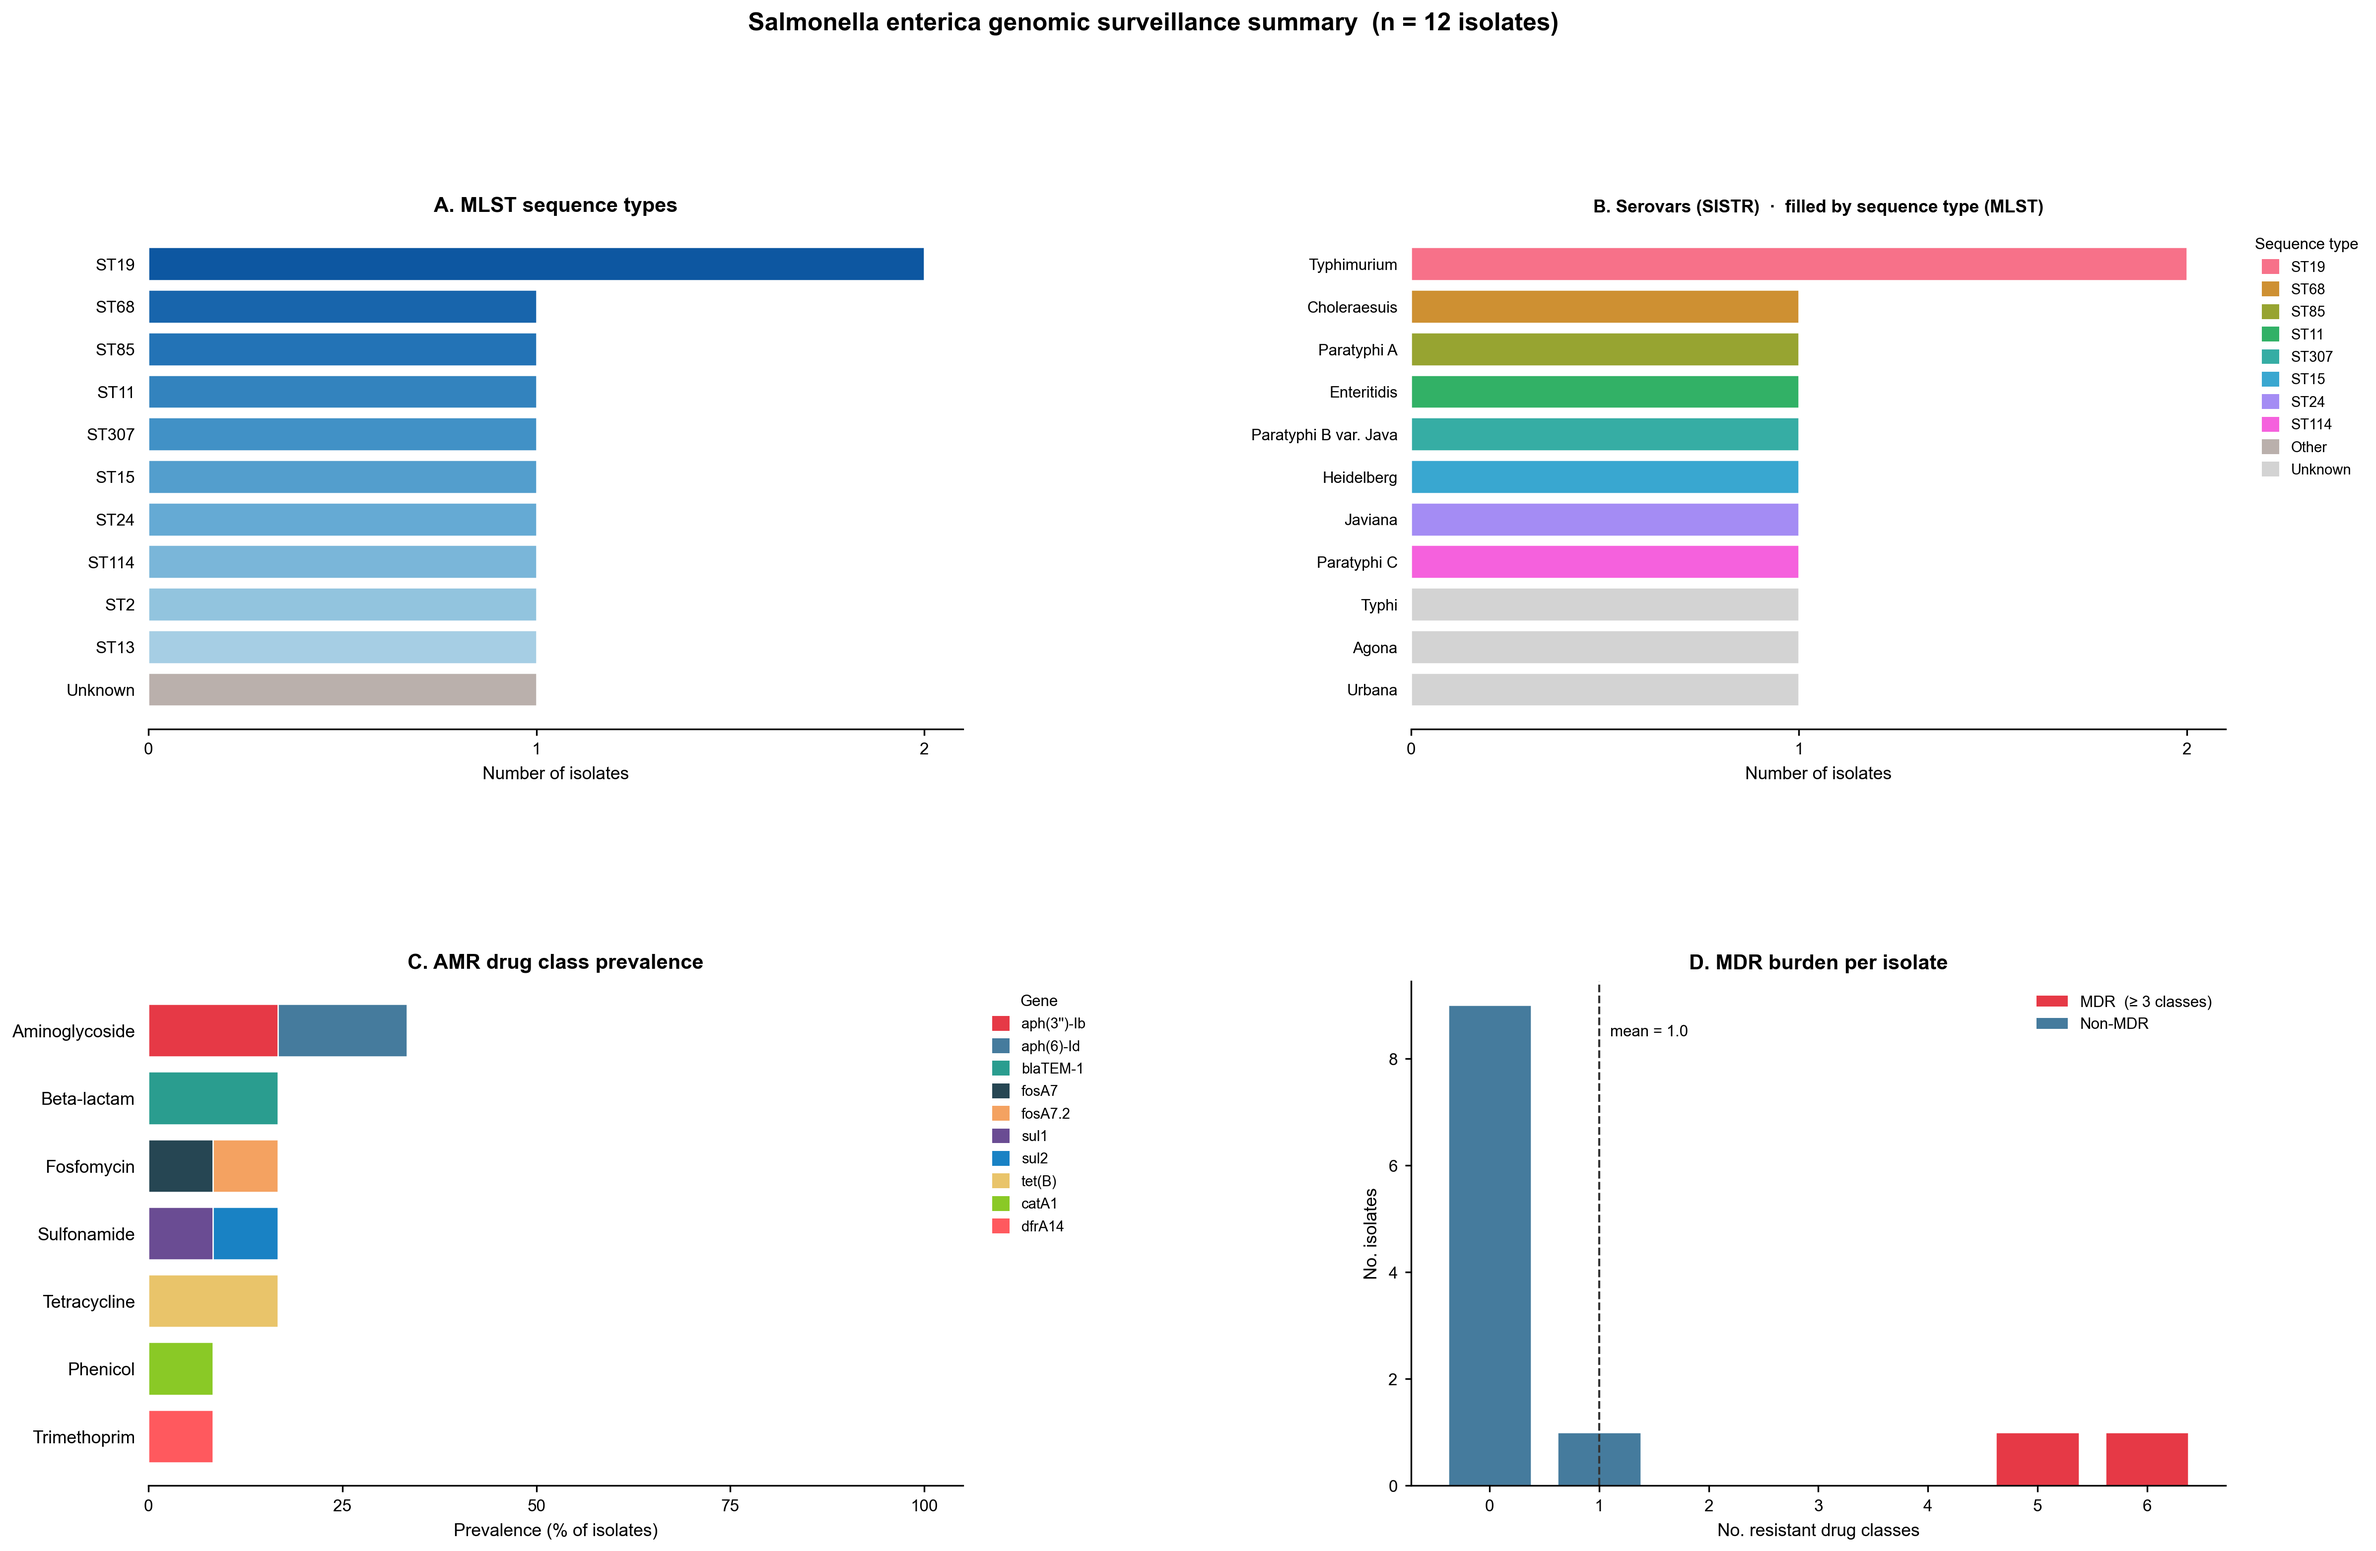
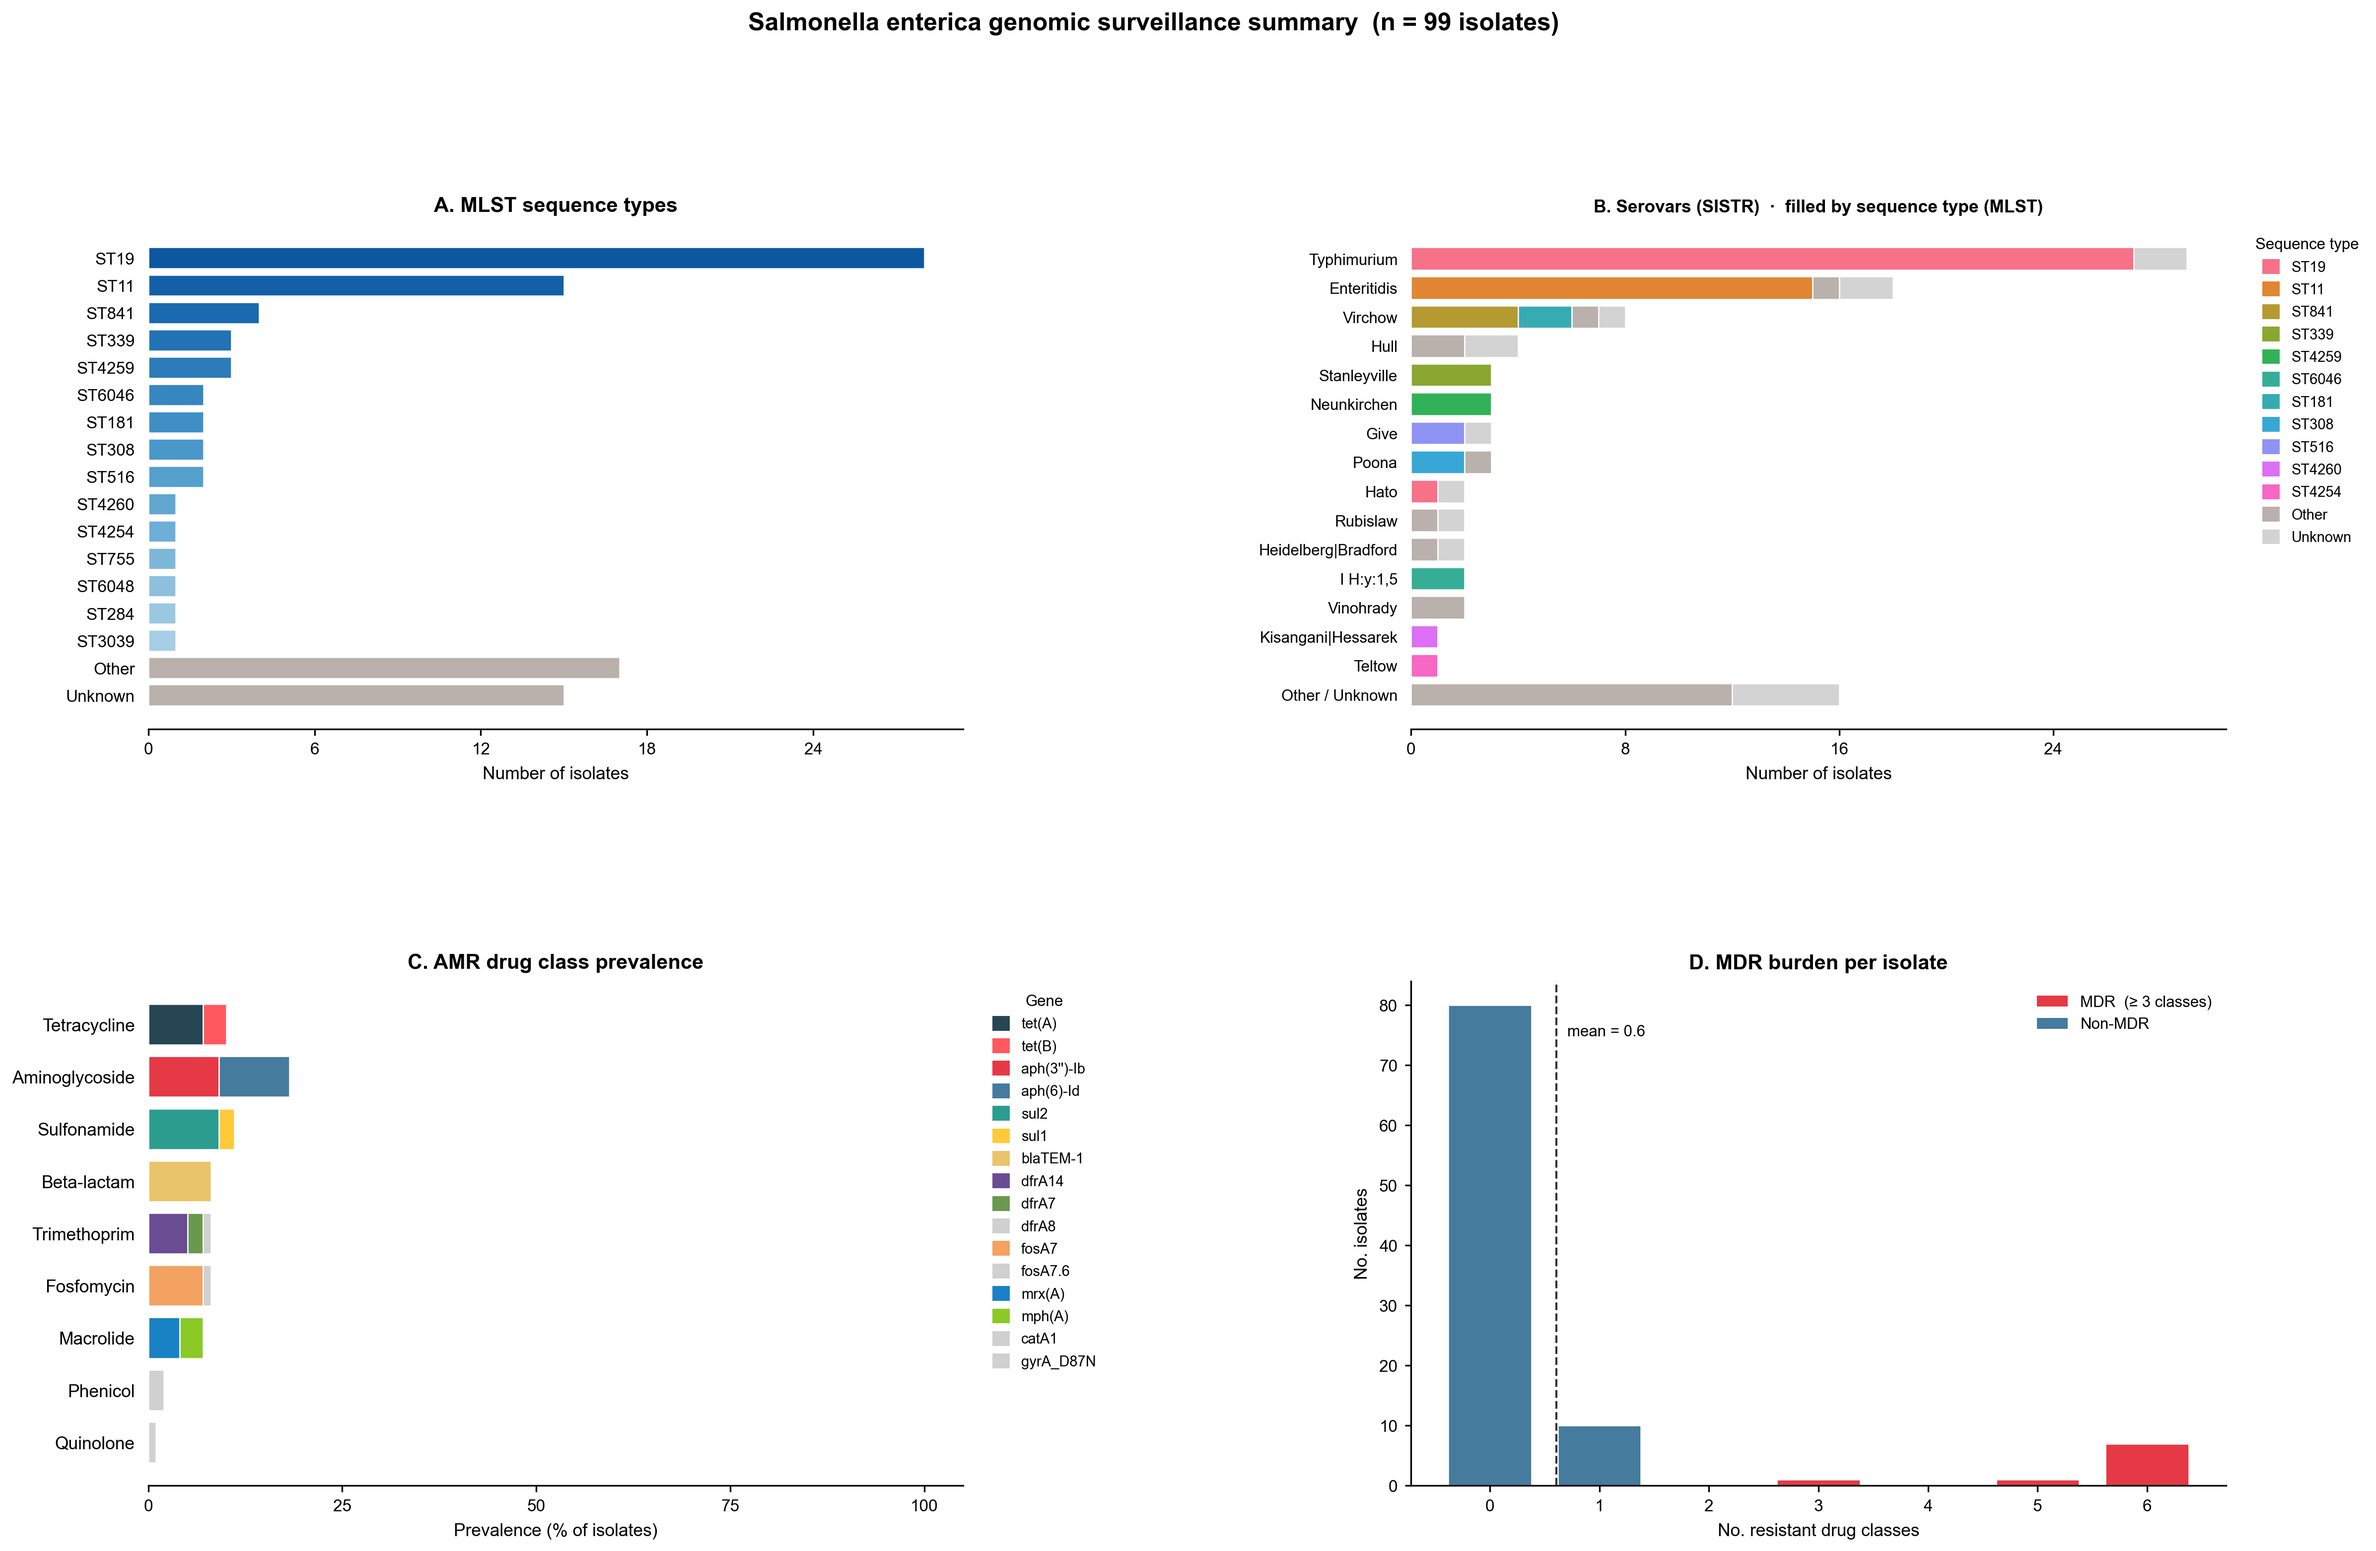
Update vignettes with Gambian Salmonella results and legend corrections
Salmonella vignette:
- Add all 6 figures from Darboe et al. 2022 Gambian NTS run (n=99)
- Update Fig 1 legend: serovar bars filled by top 12 MLST STs; "Other/
  Unknown" bins retain ST colours of constituent isolates

E. coli vignette:
- Update all isolate counts from 99 → 98 (E2348-69 removed)
- Replace Fig 4 legend with "No plasmid replicons were detected in this
  dataset" (PlasmidFinder returned no hits for NHP E. coli)
- Clarify Fig 1 legend: serotypes not in top 15 grouped as Other/Unknown;
  bars retain K-locus group colours

plot_summary.py:
- Increase top ST limit from 8 → 12 for serovar fill (Salmonella)
- Fix normalisation: rare fill values map to "Other" bucket (not "Unknown")
  when Other is available, giving consistent grey segmentation
- Fix figure title: detect Salmonella from DataFrame columns (sistr_serovar),
  not prefix string, so title is correct when run manually

diff --git a/bin/plot_summary.py b/bin/plot_summary.py
@@ -182,7 +182,7 @@ def fig_population_summary(df: pd.DataFrame, outdir: Path, prefix: str) -> None:
     _panel_sero(df, fig.add_subplot(gs[0, 1]))
     _panel_amr(df,  fig.add_subplot(gs[1, 0]))
     _panel_mdr(df,  fig.add_subplot(gs[1, 1]))
-    sp_label = ("Salmonella enterica" if "salmonella" in prefix.lower()
+    sp_label = ("Salmonella enterica" if ("sistr_serovar" in df.columns or "salmonella" in prefix.lower())
                 else "E. coli")
     fig.suptitle(f"{sp_label} genomic surveillance summary  (n = {len(df)} isolates)",
                  fontsize=12, fontweight="bold", y=1.01)
@@ -371,7 +371,7 @@ def _panel_sero(df: pd.DataFrame, ax: plt.Axes, top_n: int = 15) -> None:
     elif use_mlst_st:
         raw_st     = df["mlst_st"].apply(clean_st)
         fill_col   = raw_st
-        top_st     = [s for s, _ in Counter(raw_st).most_common(8) if s != "Unknown"]
+        top_st     = [s for s, _ in Counter(raw_st).most_common(12) if s != "Unknown"]
         has_other  = len(Counter(raw_st)) > len(top_st) + (1 if "Unknown" in Counter(raw_st) else 0)
         fill_vals  = top_st + (["Other"] if has_other else []) + (["Unknown"] if "Unknown" in Counter(raw_st) else [])
         st_pal     = sns.color_palette("husl", len(top_st))
@@ -418,7 +418,7 @@ def _panel_sero(df: pd.DataFrame, ax: plt.Axes, top_n: int = 15) -> None:
         # Normalise fill value to known categories
         valid = set(fill_vals)
         if fv not in valid:
-            fv = "Other" if use_stcomplex else "Unknown"
+            fv = "Other" if "Other" in valid else "Unknown"
 
         # Bin serotype into labelled buckets
         if sv in labels:

diff --git a/vignettes/ecoli_vignette.md b/vignettes/ecoli_vignette.md
@@ -84,7 +84,7 @@ One row per sample. Key columns:
 
 ### Fig 1 — Population summary
 
-**Figure 1. Population-level summary of 99 *Escherichia coli* isolates from
+**Figure 1. Population-level summary of 98 *Escherichia coli* isolates from
 non-human primate gut microbiomes in The Gambia.**
 Four panels are shown. **(A)** Sequence type (ST) distribution: horizontal bar
 chart of the top sequence types by count (Achtman 7-gene scheme). Commensal
@@ -93,8 +93,10 @@ phylogenetic diversity typical of gut commensals.
 **(B)** O:H serotype distribution coloured by K-locus group: stacked horizontal
 bar chart where each bar represents a serotype (ECTyper) and fill colours
 indicate the K-locus group — purple for G1/G4, orange for G2/G3 — enabling
-rapid assessment of the K-locus landscape across circulating serotypes. A
-secondary legend shows individual K-locus types within each group.
+rapid assessment of the K-locus landscape across circulating serotypes.
+Serotypes not in the top 15 are grouped as "Other / Unknown"; bars retain the
+K-locus group colours of their constituent isolates. A secondary legend shows
+individual K-locus types within each group.
 **(C)** Acquired AMR drug class prevalence: horizontal bar chart showing the
 proportion of isolates carrying at least one acquired resistance gene per drug
 class, with intrinsic resistance genes excluded.
@@ -107,7 +109,7 @@ acquired resistance to ≥ 3 antibiotic classes.
 
 ### Fig 2 — Whole-genome SNP phylogeny with AMR & virulence profiles
 
-**Figure 2. Whole-genome SNP phylogeny of 99 *Escherichia coli* NHP isolates
+**Figure 2. Whole-genome SNP phylogeny of 98 *Escherichia coli* NHP isolates
 annotated with sequence type, Clermont phylogroup, virulence, and acquired AMR
 profiles.**
 The maximum-likelihood tree was inferred by IQ-TREE 2 (ModelFinder Plus
@@ -126,7 +128,7 @@ bar (top left) represents substitutions per site.
 
 ### Fig 3 — Acquired AMR genes
 
-**Figure 3. Prevalence of acquired antimicrobial resistance genes across 99
+**Figure 3. Prevalence of acquired antimicrobial resistance genes across 98
 *Escherichia coli* NHP isolates.**
 Horizontal bar chart showing the number of isolates carrying each acquired AMR
 gene detected by AMRFinder Plus. Resistance genes are grouped and labelled by
@@ -140,12 +142,7 @@ is consistent with the commensal, non-clinical source of these isolates.
 
 ### Fig 4 — Plasmid replicon types
 
-**Figure 4. Prevalence of plasmid replicon types across 99 *Escherichia coli*
-NHP isolates.**
-Horizontal bar chart showing the number of isolates in which each replicon type
-was detected by PlasmidFinder (Enterobacteriaceae database). The distribution of
-replicon families reflects the diversity of mobile genetic elements circulating
-in commensal *E. coli* from NHP gut microbiomes.
+No plasmid replicons were detected in this dataset.
 
 ![Plasmid replicons](img/ecoli/ecoli_fig4_plasmid_replicons.png)
 
@@ -153,7 +150,7 @@ in commensal *E. coli* from NHP gut microbiomes.
 
 ### Fig 5 — Virulence genes
 
-**Figure 5. Prevalence of virulence factor genes across 99 *Escherichia coli*
+**Figure 5. Prevalence of virulence factor genes across 98 *Escherichia coli*
 NHP isolates.**
 Horizontal bar chart showing the number of isolates carrying each virulence gene
 detected by AMRFinder Plus (virulence gene module). Genes are ordered by
@@ -168,7 +165,7 @@ from the original study (Foster-Nyarko et al. 2020), which noted that NHP
 
 ### Fig 6 — Pairwise whole-genome SNP distance heatmap
 
-**Figure 6. Pairwise whole-genome SNP distance heatmap for 99 *Escherichia coli*
+**Figure 6. Pairwise whole-genome SNP distance heatmap for 98 *Escherichia coli*
 NHP isolates.**
 Symmetric heatmap of pairwise SNP distances computed from the SKA2 whole-genome
 SNP alignment. Samples are ordered by hierarchical clustering. Colour intensity

diff --git a/vignettes/salmonella_vignette.md b/vignettes/salmonella_vignette.md
@@ -195,8 +195,11 @@ chart of MLST STs by count (Achtman 7-gene scheme, `senterica_achtman_2`),
 reflecting the dominant lineages circulating in Gambian NTS disease.
 **(B)** Serovar distribution coloured by MLST sequence type: stacked horizontal
 bar chart where each bar represents a serovar predicted by SISTR and fill colours
-indicate MLST sequence types, enabling rapid assessment of serovar–ST concordance
-and within-serovar lineage diversity.
+indicate MLST sequence types (up to the top 12 STs are shown individually;
+remaining STs are grouped as "Other" and isolates with no ST call as "Unknown").
+Bars retain the ST colours of their constituent isolates even when the serovar
+itself falls into the "Other / Unknown" bin, enabling rapid assessment of
+serovar–ST concordance and within-serovar lineage diversity.
 **(C)** Acquired AMR drug class prevalence: horizontal bar chart showing the
 proportion of isolates with acquired resistance in each drug class, with
 intrinsic resistance genes excluded (AMRrules classification). Clinically
